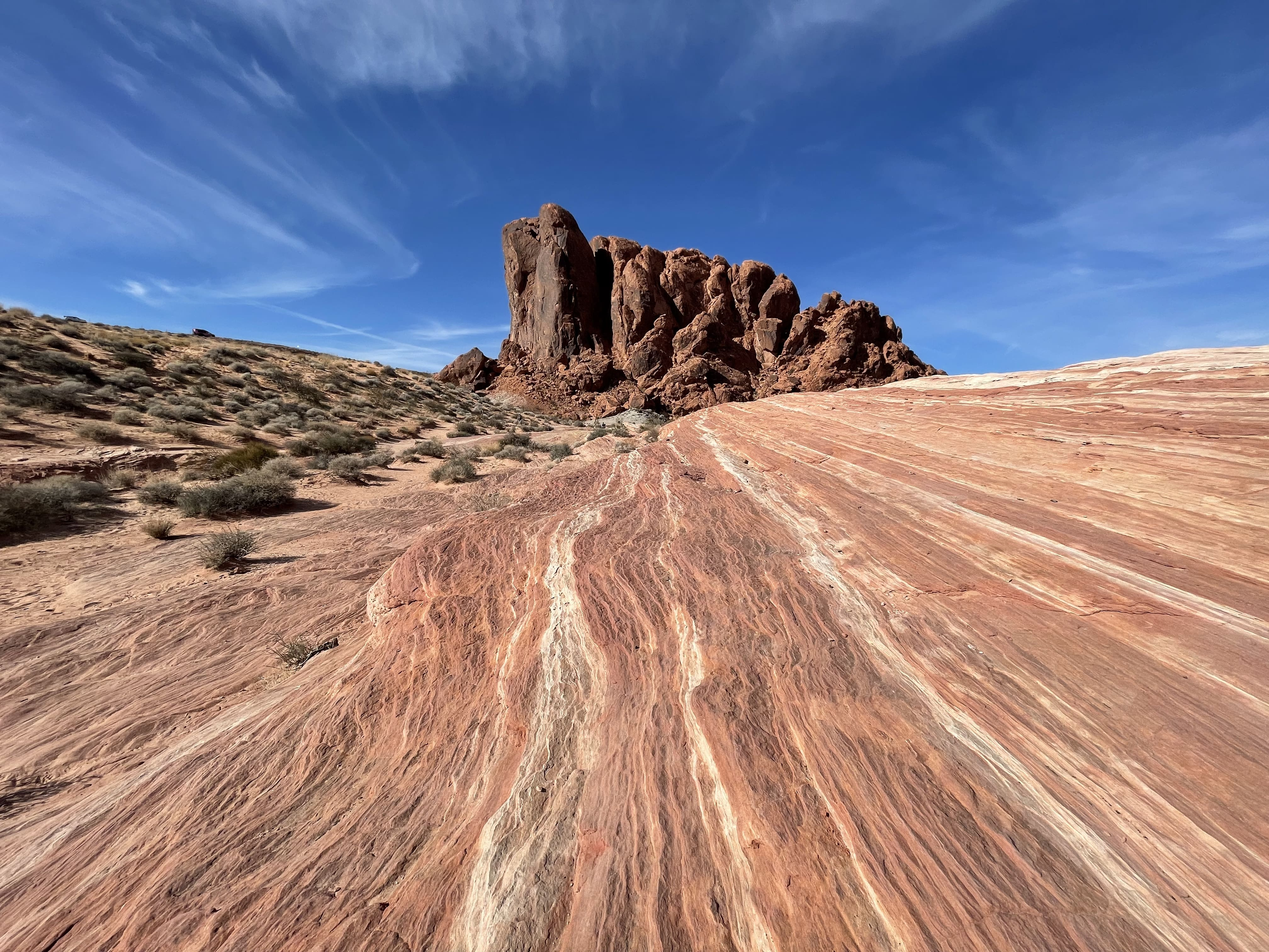
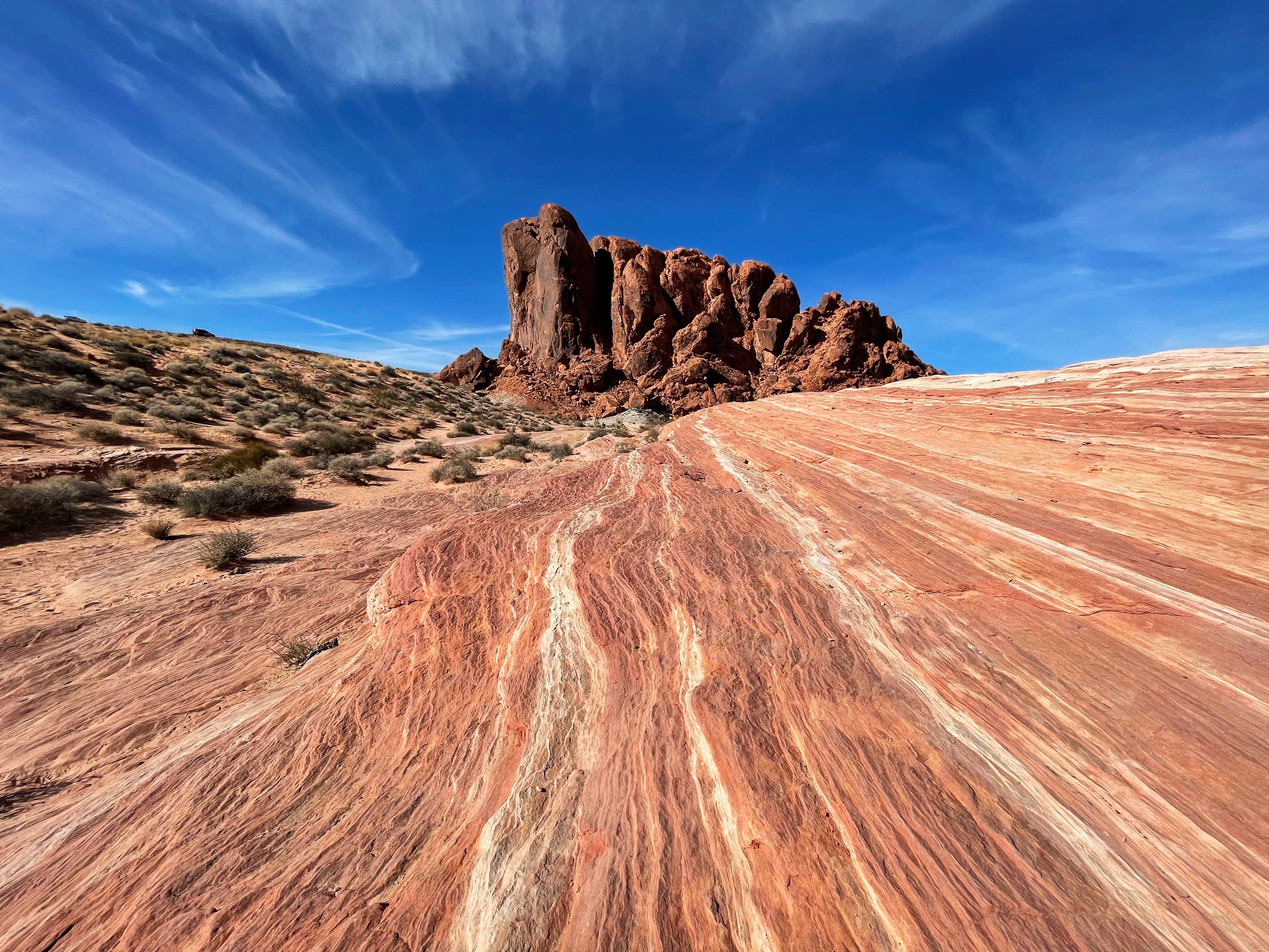
edited and compressed

Changed region(s): [[0.0, 0.0, 1.0, 0.4041]]

diff --git a/desert.html b/desert.html
@@ -55,128 +55,128 @@
         </div>
          
          <div id="mygallery" class="justified-gallery">
-            <a href="images/desert/1.jpg" class="swipebox">
-                <img src="images/desert/1.jpg"/>
+            <a href="images/compressed/desert/1-min.jpg" class="swipebox">
+                <img src="images/compressed/desert/1-min.jpg"/>
             </a>
-            <a href="images/desert/2.jpg" class="swipebox">
-                <img src="images/desert/2.jpg"/>
+            <a href="images/compressed/desert/2-min.jpg" class="swipebox">
+                <img src="images/compressed/desert/2-min.jpg"/>
             </a>
-             <a href="images/desert/4.jpg" class="swipebox">
-                <img src="images/desert/4.jpg"/>
+             <a href="images/compressed/desert/4-min.jpg" class="swipebox">
+                <img src="images/compressed/desert/4-min.jpg"/>
             </a>
-             <a href="images/desert/5.jpg" class="swipebox">
-                <img src="images/desert/5.jpg"/>
+             <a href="images/compressed/desert/5-min.jpg" class="swipebox">
+                <img src="images/compressed/desert/5-min.jpg"/>
             </a>
-             <a href="images/desert/6.jpg" class="swipebox">
-                <img src="images/desert/6.jpg"/>
+             <a href="images/compressed/desert/6-min.jpg" class="swipebox">
+                <img src="images/compressed/desert/6-min.jpg"/>
             </a>
-             <a href="images/desert/7.jpg" class="swipebox">
-                <img src="images/desert/7.jpg"/>
+             <a href="images/compressed/desert/7-min.jpg" class="swipebox">
+                <img src="images/compressed/desert/7-min.jpg"/>
             </a>
-             <a href="images/desert/8.jpg" class="swipebox">
-                <img src="images/desert/8.jpg"/>
+             <a href="images/compressed/desert/8-min.jpg" class="swipebox">
+                <img src="images/compressed/desert/8-min.jpg"/>
             </a>
-             <a href="images/desert/9.jpg" class="swipebox">
-                <img src="images/desert/9.jpg"/>
+             <a href="images/compressed/desert/9-min.jpg" class="swipebox">
+                <img src="images/compressed/desert/9-min.jpg"/>
             </a>
-             <a href="images/desert/10.jpeg" class="swipebox">
-                <img src="images/desert/10.jpeg"/>
+             <a href="images/compressed/desert/10-min.jpeg" class="swipebox">
+                <img src="images/compressed/desert/10-min.jpeg"/>
             </a>
-             <a href="images/desert/12.jpeg" class="swipebox">
-                <img src="images/desert/12.jpeg"/>
+             <a href="images/compressed/desert/12-min.jpg" class="swipebox">
+                <img src="images/compressed/desert/12-min.jpg"/>
             </a>
-             <a href="images/desert/13.jpeg" class="swipebox">
-                <img src="images/desert/13.jpeg"/>
+             <a href="images/compressed/desert/13-min.jpg" class="swipebox">
+                <img src="images/compressed/desert/13-min.jpg"/>
             </a>
-             <a href="images/desert/14.jpeg" class="swipebox">
-                <img src="images/desert/14.jpeg"/>
+             <a href="images/compressed/desert/14-min.jpg" class="swipebox">
+                <img src="images/compressed/desert/14-min.jpg"/>
             </a>
-             <a href="images/desert/15.jpeg" class="swipebox">
-                <img src="images/desert/15.jpeg"/>
+             <a href="images/compressed/desert/15-min.jpg" class="swipebox">
+                <img src="images/compressed/desert/15-min.jpg"/>
             </a>
-             <a href="images/desert/16.jpeg" class="swipebox">
-                <img src="images/desert/16.jpeg"/>
+             <a href="images/compressed/desert/16-min.jpg" class="swipebox">
+                <img src="images/compressed/desert/16-min.jpg"/>
             </a>
-             <a href="images/desert/17.jpeg" class="swipebox">
-                <img src="images/desert/17.jpeg"/>
+             <a href="images/compressed/desert/17-min.jpg" class="swipebox">
+                <img src="images/compressed/desert/17-min.jpg"/>
             </a>
-             <a href="images/desert/18.jpeg" class="swipebox">
-                <img src="images/desert/18.jpeg"/>
+             <a href="images/compressed/desert/18-min.jpg" class="swipebox">
+                <img src="images/compressed/desert/18-min.jpg"/>
             </a>
-             <a href="images/desert/19.jpeg" class="swipebox">
-                <img src="images/desert/19.jpeg"/>
+             <a href="images/compressed/desert/19-min.jpg" class="swipebox">
+                <img src="images/compressed/desert/19-min.jpg"/>
             </a>
-             <a href="images/desert/20.jpeg" class="swipebox">
-                <img src="images/desert/20.jpeg"/>
+             <a href="images/compressed/desert/20-min.jpg" class="swipebox">
+                <img src="images/compressed/desert/20-min.jpg"/>
             </a>
-             <a href="images/desert/21.jpeg" class="swipebox">
-                <img src="images/desert/21.jpeg"/>
+             <a href="images/compressed/desert/21-min.jpg" class="swipebox">
+                <img src="images/compressed/desert/21-min.jpg"/>
             </a>
-             <a href="images/desert/22.jpeg" class="swipebox">
-                <img src="images/desert/22.jpeg"/>
+             <a href="images/compressed/desert/22-min.jpg" class="swipebox">
+                <img src="images/compressed/desert/22-min.jpg"/>
             </a>
-             <a href="images/desert/23.jpeg" class="swipebox">
-                <img src="images/desert/23.jpeg"/>
+             <a href="images/compressed/desert/23-min.jpg" class="swipebox">
+                <img src="images/compressed/desert/23-min.jpg"/>
             </a>
-             <a href="images/desert/24.jpeg" class="swipebox">
-                <img src="images/desert/24.jpeg"/>
+             <a href="images/compressed/desert/24-min.jpg" class="swipebox">
+                <img src="images/compressed/desert/24-min.jpg"/>
             </a>
-             <a href="images/desert/25.jpeg" class="swipebox">
-                <img src="images/desert/25.jpeg"/>
+             <a href="images/compressed/desert/25-min.jpg" class="swipebox">
+                <img src="images/compressed/desert/25-min.jpg"/>
             </a>
-             <a href="images/desert/26.jpeg" class="swipebox">
-                <img src="images/desert/26.jpeg"/>
+             <a href="images/compressed/desert/26-min.jpg" class="swipebox">
+                <img src="images/compressed/desert/26-min.jpg"/>
             </a>
-             <a href="images/desert/27.jpeg" class="swipebox">
-                <img src="images/desert/27.jpeg"/>
+             <a href="images/compressed/desert/27-min.jpg" class="swipebox">
+                <img src="images/compressed/desert/27-min.jpg"/>
             </a>
-             <a href="images/desert/28.jpeg" class="swipebox">
-                <img src="images/desert/28.jpeg"/>
+             <a href="images/compressed/desert/28-min.jpg" class="swipebox">
+                <img src="images/compressed/desert/28-min.jpg"/>
             </a>
-             <a href="images/desert/29.jpeg" class="swipebox">
-                <img src="images/desert/29.jpeg"/>
+             <a href="images/compressed/desert/29-min.jpg" class="swipebox">
+                <img src="images/compressed/desert/29-min.jpg"/>
             </a>
-             <a href="images/desert/30.jpeg" class="swipebox">
-                <img src="images/desert/30.jpeg"/>
+             <a href="images/compressed/desert/30-min.jpg" class="swipebox">
+                <img src="images/compressed/desert/30-min.jpg"/>
             </a>
-             <a href="images/desert/31.jpeg" class="swipebox">
-                <img src="images/desert/31.jpeg"/>
+             <a href="images/compressed/desert/31-min.jpg" class="swipebox">
+                <img src="images/compressed/desert/31-min.jpg"/>
             </a>
-             <a href="images/desert/32.jpeg" class="swipebox">
-                <img src="images/desert/32.jpeg"/>
+             <a href="images/compressed/desert/32-min.jpg" class="swipebox">
+                <img src="images/compressed/desert/32-min.jpg"/>
             </a>
-             <a href="images/desert/33.jpg" class="swipebox">
-                <img src="images/desert/33.jpg"/>
+             <a href="images/compressed/desert/33-min.jpg" class="swipebox">
+                <img src="images/compressed/desert/33-min.jpg"/>
             </a>
-             <a href="images/desert/34.jpeg" class="swipebox">
-                <img src="images/desert/34.jpeg"/>
+             <a href="images/compressed/desert/34-min.jpg" class="swipebox">
+                <img src="images/compressed/desert/34-min.jpg"/>
             </a>
-             <a href="images/desert/35.jpeg" class="swipebox">
-                <img src="images/desert/35.jpeg"/>
+             <a href="images/compressed/desert/35-min.jpg" class="swipebox">
+                <img src="images/compressed/desert/35-min.jpg"/>
             </a>
-             <a href="images/desert/36.jpeg" class="swipebox">
-                <img src="images/desert/36.jpeg"/>
+             <a href="images/compressed/desert/36-min.jpg" class="swipebox">
+                <img src="images/compressed/desert/36-min.jpg"/>
             </a>
-             <a href="images/desert/37.jpg" class="swipebox">
-                <img src="images/desert/37.jpg"/>
+             <a href="images/compressed/desert/37-min.jpg" class="swipebox">
+                <img src="images/compressed/desert/37-min.jpg"/>
             </a>
-             <a href="images/desert/38.jpeg" class="swipebox">
-                <img src="images/desert/38.jpeg"/>
+             <a href="images/compressed/desert/38-min.jpg" class="swipebox">
+                <img src="images/compressed/desert/38-min.jpg"/>
             </a>
-             <a href="images/desert/39.jpg" class="swipebox">
-                <img src="images/desert/39.jpg"/>
+             <a href="images/compressed/desert/39-min.jpg" class="swipebox">
+                <img src="images/compressed/desert/39-min.jpg"/>
             </a>
-             <a href="images/desert/40.jpeg" class="swipebox">
-                <img src="images/desert/40.jpeg"/>
+             <a href="images/compressed/desert/40-min.jpg" class="swipebox">
+                <img src="images/compressed/desert/40-min.jpg"/>
             </a>
-             <a href="images/desert/41.jpg" class="swipebox">
-                <img src="images/desert/41.jpg"/>
+             <a href="images/compressed/desert/41-min.jpg" class="swipebox">
+                <img src="images/compressed/desert/41-min.jpg"/>
             </a>
-             <a href="images/desert/42.jpeg" class="swipebox">
-                <img src="images/desert/42.jpeg"/>
+             <a href="images/compressed/desert/42-min.jpg" class="swipebox">
+                <img src="images/compressed/desert/42-min.jpg"/>
             </a>
-             <a href="images/desert/43.jpeg" class="swipebox">
-                <img src="images/desert/43.jpeg"/>
+             <a href="images/compressed/desert/43-min.jpg" class="swipebox">
+                <img src="images/compressed/desert/43-min.jpg"/>
             </a>
              
              

diff --git a/index.html b/index.html
@@ -71,11 +71,11 @@
             <a href="images/compressed/front_pager/5.jpg" class="swipebox">
                 <img src="images/compressed/front_pager/5.jpg"/>
             </a>
-            <a href="images/desert/5.jpg" class="swipebox">
-                <img src="images/desert/5.jpg"/>
+            <a href="images/compressed/desert/5-min.jpg" class="swipebox">
+                <img src="images/compressed/desert/5-min.jpg"/>
             </a>
-            <a href="images/desert/1.jpg" class="swipebox">
-                <img src="images/desert/1.jpg"/>
+            <a href="images/compressed/desert/1-min.jpg" class="swipebox">
+                <img src="images/compressed/desert/1-min.jpg"/>
             </a>
             <a href="images/compressed/front_pager/6.jpg" class="swipebox">
                 <img src="images/compressed/front_pager/6.jpg"/>
@@ -83,8 +83,8 @@
             <a href="images/compressed/front_pager/7.jpg" class="swipebox">
                 <img src="images/compressed/front_pager/7.jpg"/>
             </a>
-            <a href="images/desert/2.jpg" class="swipebox">
-                <img src="images/desert/2.jpg"/>
+            <a href="images/compressed/desert/2-min.jpg" class="swipebox">
+                <img src="images/compressed/desert/2-min.jpg"/>
             </a>
             <a href="images/compressed/front_pager/8.jpg" class="swipebox">
                 <img src="images/compressed/front_pager/8.jpg"/>
@@ -98,8 +98,8 @@
             <a href="images/compressed/front_pager/b_.jpg" class="swipebox">
                 <img src="images/compressed/front_pager/b_.jpg"/>
             </a>
-            <a href="images/desert/8.jpg" class="swipebox">
-                <img src="images/desert/8.jpg"/>
+            <a href="images/compressed/desert/8-min.jpg" class="swipebox">
+                <img src="images/compressed/desert/8-min.jpg"/>
             </a>
             <a href="images/compressed/front_pager/11.jpg" class="swipebox">
                 <img src="images/compressed/front_pager/11.jpg"/>
@@ -116,8 +116,8 @@
             <a href="images/compressed/front_pager/15.jpg" class="swipebox">
                 <img src="images/compressed/front_pager/15.jpg"/>
             </a>
-            <a href="images/desert/4.jpg" class="swipebox">
-                <img src="images/desert/4.jpg"/>
+            <a href="images/compressed/desert/4-min.jpg" class="swipebox">
+                <img src="images/compressed/desert/4-min.jpg"/>
             </a>
             <a href="images/compressed/front_pager/16.jpg" class="swipebox">
                 <img src="images/compressed/front_pager/16.jpg"/>
@@ -128,8 +128,8 @@
             <a href="images/compressed/front_pager/18.jpg" class="swipebox">
                 <img src="images/compressed/front_pager/18.jpg"/>
             </a>
-            <a href="images/desert/6.jpg" class="swipebox">
-                <img src="images/desert/6.jpg"/>
+            <a href="images/compressed/desert/6-min.jpg" class="swipebox">
+                <img src="images/compressed/desert/6-min.jpg"/>
             </a>
             <a href="images/compressed/front_pager/a_.jpg" class="swipebox">
                 <img src="images/compressed/front_pager/a_.jpg"/>
@@ -152,8 +152,8 @@
             <a href="images/compressed/front_pager/25.jpg" class="swipebox">
                 <img src="images/compressed/front_pager/25.jpg"/>
             </a>
-            <a href="images/desert/7.jpg" class="swipebox">
-                <img src="images/desert/7.jpg"/>
+            <a href="images/compressed/desert/7-min.jpg" class="swipebox">
+                <img src="images/compressed/desert/7-min.jpg"/>
             </a>
             <a href="images/compressed/front_pager/26.jpg" class="swipebox">
                 <img src="images/compressed/front_pager/26.jpg"/>
